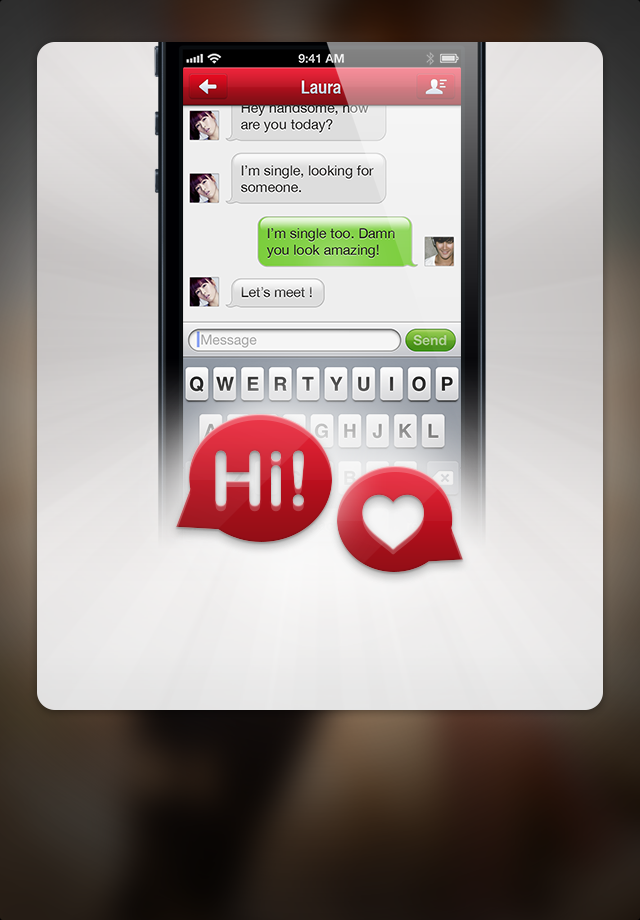
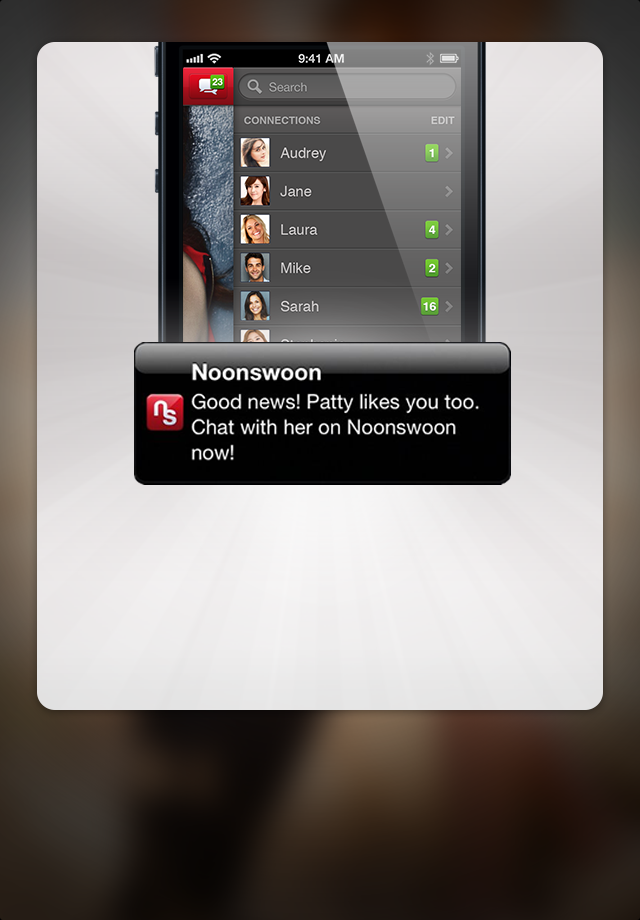
version 1 of new onboarding screen..still need changing

Changed region(s): [[0.1875, 0.0609, 0.8125, 0.6391]]

diff --git a/Resources/ui/handheld/Mn_LoginOnBoarding4View.js b/Resources/ui/handheld/Mn_LoginOnBoarding4View.js
@@ -8,9 +8,20 @@ LoginOnBoarding4View = function() {
 		image: 'images/onboarding-4.png',
 		zIndex: 0,
 	});
-		
-	var description = Ti.UI.createLabel({
-		text: L('Chat with your match'),
+
+	var description1 = Ti.UI.createLabel({
+		text: L('Get connected'),
+		center: {x:'50%', y:275},
+		color: '#4e5866',
+		font:{fontWeight:'bold',fontSize:20},
+		zIndex:3,
+		shadowColor: '#ffffff', 
+		shadowOffset: {x:0, y:1},
+	});
+	self.add(description1);			
+
+	var description2 = Ti.UI.createLabel({
+		text: L('if you like each other'),
 		center: {x:'50%', y:315}, //x:67
 		color: '#4e5866',
 		font:{fontWeight:'bold',fontSize:20},
@@ -18,7 +29,7 @@ LoginOnBoarding4View = function() {
 		shadowColor: '#ffffff', 
 		shadowOffset: {x:0, y:1},
 	});
-	self.add(description);
+	self.add(description2);	
 	
 	return self;
 };

diff --git a/Resources/ui/handheld/Mn_LoginOnBoarding5View.js b/Resources/ui/handheld/Mn_LoginOnBoarding5View.js
@@ -1,16 +1,16 @@
-LoginOnBoarding3View = function() {
+LoginOnBoarding5View = function() {
 	
 	//create component instance
 	var self = Ti.UI.createImageView({
 		left: 0, 
 		top: 0,
 		width: '100%',
-		image: 'images/onboarding-3.png',
+		image: 'images/onboarding-5.png',
 		zIndex: 0,
 	});
-	
+		
 	var description = Ti.UI.createLabel({
-		text: L('Like or Pass your match'),
+		text: L('Chat privately'),
 		center: {x:'50%', y:315}, //x:67
 		color: '#4e5866',
 		font:{fontWeight:'bold',fontSize:20},
@@ -23,4 +23,4 @@ LoginOnBoarding3View = function() {
 	return self;
 };
 
-module.exports = LoginOnBoarding3View;
+module.exports = LoginOnBoarding5View;
